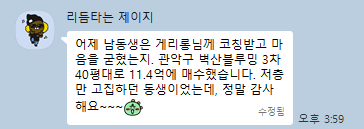
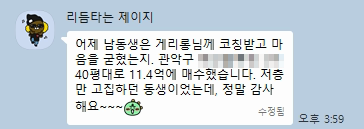
Shorten the brand to 게리롱, refresh results, mask complex names
Replaces the twelve before/after cases with the current figures; the
headline average and cumulative gain recompute to +27.4% / 43.4억.
Pixelates the apartment names still legible in three of the original
chat captures, matching the newer ones that arrived pre-masked.

diff --git a/index.html b/index.html
@@ -3,8 +3,8 @@
 <head>
 <meta charset="UTF-8" />
 <meta name="viewport" content="width=device-width, initial-scale=1.0" />
-<title>아파트게리롱 | 재테크 & 투자 인사이트</title>
-<meta name="description" content="아파트게리롱 — 데이터와 현장 임장을 바탕으로 전하는 부동산 재테크 & 투자 인사이트. 나에게 꼭 맞는 아파트 단지 추천." />
+<title>게리롱 | 재테크 & 투자 인사이트</title>
+<meta name="description" content="게리롱 — 데이터와 현장 임장을 바탕으로 전하는 부동산 재테크 & 투자 인사이트. 나에게 꼭 맞는 아파트 단지 추천." />
 
 <link rel="preconnect" href="https://cdn.jsdelivr.net" crossorigin />
 <link rel="stylesheet" as="style" crossorigin
@@ -20,8 +20,8 @@
 <header class="site-header" id="siteHeader">
   <div class="container header-inner">
     <a href="#top" class="brand">
-      <span class="brand-mark"><img src="assets/img/profile.jpeg" alt="아파트게리롱" /></span>
-      <span class="brand-name">아파트게리롱</span>
+      <span class="brand-mark"><img src="assets/img/profile.jpeg" alt="게리롱" /></span>
+      <span class="brand-name">게리롱</span>
     </a>
 
     <nav class="main-nav" id="mainNav">
@@ -55,7 +55,7 @@
       </h1>
       <p class="hero-sub reveal">
         시세·정책·입지 데이터 분석부터 전문가 상담, 단지 매칭까지<br class="br-desktop" />
-        아파트게리롱이 투자 결정의 처음부터 끝까지 함께합니다
+        게리롱이 투자 결정의 처음부터 끝까지 함께합니다
       </p>
       <div class="hero-actions reveal">
         <a href="#contact" class="btn btn-primary">
@@ -113,7 +113,7 @@
   <!-- TRUST -->
   <section class="section section-alt trust-section" id="trust">
     <div class="container">
-      <p class="eyebrow reveal">WHY 아파트게리롱</p>
+      <p class="eyebrow reveal">WHY 게리롱</p>
       <h2 class="section-title reveal">정확한 판단은<br />'발품'과 '손품'에서 시작됩니다</h2>
 
       <div class="trust-grid">
@@ -132,9 +132,9 @@
       </div>
 
       <div class="trust-quote reveal">
-        <div class="trust-quote-avatar"><img src="assets/img/profile.jpeg" alt="아파트게리롱" /></div>
+        <div class="trust-quote-avatar"><img src="assets/img/profile.jpeg" alt="게리롱" /></div>
         <p class="trust-quote-text">전국에 있는 모든 아파트를 직접 발로 밟았습니다.<br class="br-desktop" />제가 확신이 없는 단지는 다른 사람에게도 절대 권하지 않습니다.<br class="br-desktop" />데이터와 실행 중심의 컨설팅으로 내집마련과 투자를 함께 성공시킵니다.</p>
-        <span class="trust-quote-name">— 아파트게리롱</span>
+        <span class="trust-quote-name">— 게리롱</span>
       </div>
     </div>
   </section>
@@ -269,7 +269,7 @@
         </div>
 
         <div class="compare-card compare-card-highlight reveal">
-          <span class="compare-card-badge">아파트게리롱과 함께</span>
+          <span class="compare-card-badge">게리롱과 함께</span>
           <span class="compare-card-tag">컨설팅을 통했을 때</span>
           <h3 class="compare-card-title">데이터로 검증하는 투자</h3>
           <ul class="compare-list compare-list-benefit">
@@ -328,7 +328,7 @@
     <div class="container">
       <p class="eyebrow reveal">ON-SITE</p>
       <h2 class="section-title reveal">강의실을 가득 채운,<br />진짜 관심과 열기</h2>
-      <p class="section-desc reveal">매 기수 만석으로 진행되는 아파트게리롱 부동산 세미나 현장입니다.</p>
+      <p class="section-desc reveal">매 기수 만석으로 진행되는 게리롱 부동산 세미나 현장입니다.</p>
 
       <div class="gallery-grid">
         <div class="gallery-frame reveal">
@@ -351,7 +351,7 @@
   <section class="section section-alt" id="videos">
     <div class="container">
       <p class="eyebrow reveal">YOUTUBE</p>
-      <h2 class="section-title reveal">영상으로 먼저 만나보는<br />아파트게리롱</h2>
+      <h2 class="section-title reveal">영상으로 먼저 만나보는<br />게리롱</h2>
       <p class="section-desc reveal">채널에서 가장 많이 찾는 인사이트 영상들을 모았습니다.</p>
       <a href="https://www.youtube.com/@APTGRR" target="_blank" rel="noopener" class="card-link reveal">채널 전체 영상 보기 ↗</a>
 
@@ -385,7 +385,7 @@
     <div class="container about-grid">
       <div class="about-visual reveal">
         <div class="about-photo-frame">
-          <img src="assets/img/profile.jpeg" alt="아파트게리롱" />
+          <img src="assets/img/profile.jpeg" alt="게리롱" />
         </div>
       </div>
 
@@ -405,7 +405,7 @@
         </ul>
 
         <div class="channel-banner reveal">
-          <img src="assets/img/hero-skyline.png" alt="아파트게리롱 공식 채널 배너" loading="lazy" />
+          <img src="assets/img/hero-skyline.png" alt="게리롱 공식 채널 배너" loading="lazy" />
           <span class="channel-banner-tag">OFFICIAL CHANNEL</span>
         </div>
       </div>
@@ -577,14 +577,14 @@
   <div class="container footer-inner-col">
     <div class="footer-top">
       <div class="brand brand-footer">
-        <span class="brand-mark"><img src="assets/img/profile.jpeg" alt="아파트게리롱" /></span>
-        <span class="brand-name">아파트게리롱</span>
+        <span class="brand-mark"><img src="assets/img/profile.jpeg" alt="게리롱" /></span>
+        <span class="brand-name">게리롱</span>
       </div>
       <a href="https://bit.ly/48OO4vg" target="_blank" rel="noopener" class="footer-cta">상담 신청 →</a>
     </div>
 
     <div class="footer-business">
-      <span>상호: 아파트게리롱</span>
+      <span>상호: 게리롱</span>
       <span>대표: OOO</span>
       <span>사업장 소재지: 서울특별시 강남구 (상세 주소 별도 안내)</span>
       <span>사업자등록번호: 000-00-00000</span>
@@ -592,7 +592,7 @@
     </div>
 
     <div class="footer-bottom">
-      <p class="footer-copy">ⓒ 2026 아파트게리롱. All rights reserved.</p>
+      <p class="footer-copy">ⓒ 2026 게리롱. All rights reserved.</p>
       <a href="privacy.html" class="footer-link">개인정보처리방침</a>
     </div>
   </div>

diff --git a/assets/js/main.js b/assets/js/main.js
@@ -41,18 +41,18 @@
 
   // Before / after results — prices in 억, after = current asking price
   const results = [
-    { name: '마포프레스티지자이', tag: '40중반 · 4인가족', bought: '24.11', before: 17.7, after: 24 },
-    { name: 'e편한세상신촌', tag: '30초반 · 신혼', bought: '24.07', before: 13.5, after: 19 },
-    { name: '성내삼성1차', tag: '30후반 · 신혼', bought: '24.11', before: 9.28, after: 13 },
-    { name: '파크리오', tag: '30중반 · 3인가족', bought: '25.06', before: 26.4, after: 28 },
-    { name: '마포더클래시', tag: '40후반 · 3인가족', bought: '25.02', before: 17.5, after: 24 },
-    { name: '공덕래미안4차', tag: '30초반 · 신혼', bought: '25.01', before: 13.3, after: 19 },
-    { name: '센트라스', tag: '40중반 · 4인가족', bought: '25.05', before: 15.6, after: 20 },
-    { name: '신길센트럴자이', tag: '40초반 · 싱글', bought: '25.01', before: 12.8, after: 17 },
-    { name: '잠실엘스', tag: '40중반 · 3인가족', bought: '25.05', before: 25.5, after: 30 },
-    { name: '목동센트럴아이파크위브', tag: '30후반 · 2인가족', bought: '24.06', before: 6.92, after: 9 },
-    { name: '래미안로이파크', tag: '40중반 · 4인가족', bought: '25.02', before: 16.85, after: 21 },
-    { name: '송파롯데캐슬시그니처 59', tag: '40중반 · 3인가족', bought: '25.10', before: 17.95, after: 22 },
+    { name: '약수하이츠', tag: '24평', bought: '25.08', before: 12, after: 16.4 },
+    { name: '노량진우성', tag: '33평', bought: '25.09', before: 12.6, after: 16.2 },
+    { name: '독립문극동', tag: '32평', bought: '25.09', before: 11.9, after: 15.5 },
+    { name: '마포프레스티지자이', tag: '34평', bought: '25.06', before: 18.5, after: 23 },
+    { name: '신길센트럴자이', tag: '34평', bought: '25.07', before: 14.9, after: 19.5 },
+    { name: '신도림동아3차', tag: '24평', bought: '25.09', before: 11.6, after: 15.5 },
+    { name: '현대3차', tag: '33평', bought: '26.01', before: 10.9, after: 14.5 },
+    { name: '관악드림타운', tag: '24평', bought: '26.02', before: 9.2, after: 12 },
+    { name: '보람마을아주', tag: '24평', bought: '25.11', before: 4.9, after: 6.8 },
+    { name: '길음6단지래미안', tag: '32평', bought: '25.12', before: 12.5, after: 15 },
+    { name: '목동신시가지7단지', tag: '22평', bought: '26.04', before: 20.8, after: 26 },
+    { name: '고덕래미안힐스테이트', tag: '34평', bought: '25.08', before: 18.7, after: 21.5 },
   ];
   const resultsGrid = document.getElementById('resultsGrid');
   if (resultsGrid) {

diff --git a/privacy.html b/privacy.html
@@ -3,7 +3,7 @@
 <head>
 <meta charset="UTF-8" />
 <meta name="viewport" content="width=device-width, initial-scale=1.0" />
-<title>개인정보처리방침 | 아파트게리롱</title>
+<title>개인정보처리방침 | 게리롱</title>
 
 <link rel="preconnect" href="https://cdn.jsdelivr.net" crossorigin />
 <link rel="stylesheet" as="style" crossorigin
@@ -32,7 +32,7 @@
   <div class="container header-inner">
     <a href="index.html#top" class="brand">
       <span class="brand-mark">아</span>
-      <span class="brand-name">아파트게리롱</span>
+      <span class="brand-name">게리롱</span>
     </a>
   </div>
 </header>
@@ -44,7 +44,7 @@
 
     <div class="policy-section">
       <h2>1. 수집하는 개인정보 항목</h2>
-      <p>아파트게리롱(이하 "회사")은 상담 신청을 위해 아래 항목을 수집합니다.</p>
+      <p>게리롱(이하 "회사")은 상담 신청을 위해 아래 항목을 수집합니다.</p>
       <ul>
         <li>이름, 연락처, 카카오톡 ID, 이메일 주소</li>
         <li>연령대, 거주지역, 상담 희망 방식 등 상담에 필요한 정보</li>
